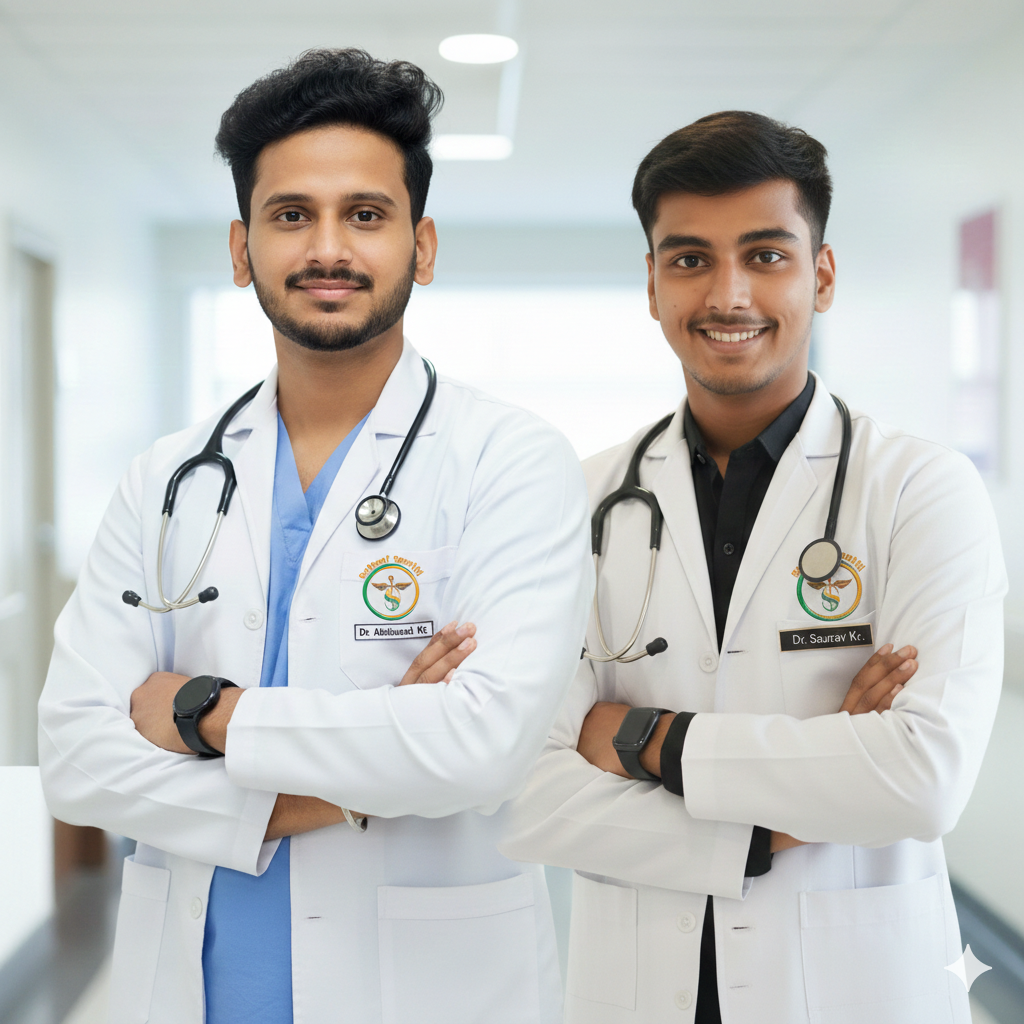
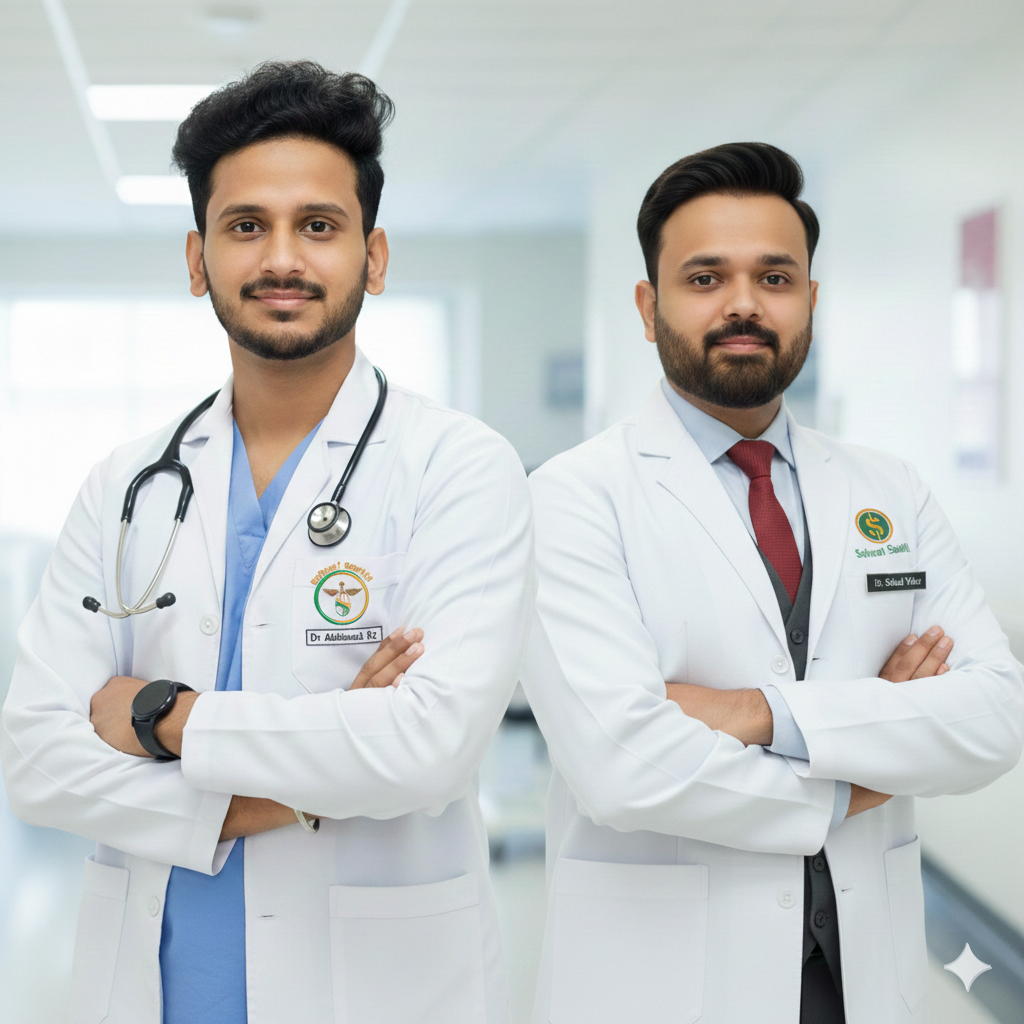
feat: enhance Nutrition Hub mobile responsiveness - responsive header title scaling, mobile-optimized float menu, flexible Bio Plate sizing

diff --git a/frontend/src/pages/NutritionHub.jsx b/frontend/src/pages/NutritionHub.jsx
@@ -390,10 +390,10 @@ const NutritionHub = () => {
                             <BsLightningFill className="text-yellow-300" />
                             <span className="text-sm font-black tracking-widest uppercase">Elite Virtual Health Kitchen 🏛</span>
                         </div>
-                        <h1 className="text-4xl md:text-6xl font-black mb-6 leading-tight flex items-center gap-3 flex-wrap">
-                            <span style={{ color: "#FF9933" }}>Sehaat</span> <span style={{ color: "#138808" }}>Saathi</span> Nutrition Hub 🥗
+                        <h1 className="text-3xl sm:text-4xl md:text-5xl lg:text-6xl font-black mb-4 sm:mb-6 leading-tight flex items-center gap-2 sm:gap-3 flex-wrap">
+                            <span style={{ color: "#FF9933" }}>Sehaat</span> <span style={{ color: "#138808" }}>Saathi</span> <span className="w-full sm:w-auto">Nutrition Hub 🥗</span>
                         </h1>
-                        <p className="text-lime-50 text-xl md:text-2xl max-w-2xl leading-relaxed opacity-90 drop-shadow-md">
+                        <p className="text-lime-50 text-base sm:text-lg md:text-xl lg:text-2xl max-w-2xl leading-relaxed opacity-90 drop-shadow-md">
                             India's first Medical-Grade AI Kitchen. Advanced condition merging, seasonal adjustments, and ICMR-compliant guidance.
                         </p>
                     </div>
@@ -433,7 +433,7 @@ const NutritionHub = () => {
                         </div>
                     </div>
 
-                    <div className="grid grid-cols-1 md:grid-cols-2 lg:grid-cols-4 gap-6">
+                    <div className="grid grid-cols-1 sm:grid-cols-2 lg:grid-cols-4 gap-4 sm:gap-6">
                         {/* Primary Disease */}
                         <div className="space-y-3">
                             <label className="text-[10px] font-black text-lime-600 uppercase tracking-[0.2em] ml-2">Primary Condition</label>
@@ -727,20 +727,21 @@ const NutritionHub = () => {
                 )}
             </div>
 
-            {/* Float Menu */}
-            <div className="fixed bottom-10 left-1/2 -translate-x-1/2 bg-black/95 backdrop-blur-2xl px-10 py-5 rounded-[2.5rem] flex items-center gap-8 shadow-[0_30px_100px_rgba(0,0,0,0.5)] z-[100] border border-white/10 group animate-in slide-in-from-bottom-10">
-                <div className="flex flex-col border-l-4 border-lime-500 pl-4">
-                    <span className="text-[9px] font-black uppercase tracking-[0.4em] mb-1"><span style={{ color: "#FF9933" }}>Sehaat</span> <span style={{ color: "#138808" }}>Saathi</span></span>
-                    <span className="text-white font-black text-[10px] whitespace-nowrap">GOVT-GRADE NUTRITION HUB v3.0 Elite</span>
+            {/* Float Menu - Mobile Optimized */}
+            <div className="fixed bottom-4 sm:bottom-10 left-1/2 -translate-x-1/2 bg-black/95 backdrop-blur-2xl px-4 sm:px-6 md:px-10 py-3 sm:py-4 md:py-5 rounded-full sm:rounded-[2.5rem] flex items-center gap-3 sm:gap-4 md:gap-8 shadow-[0_30px_100px_rgba(0,0,0,0.5)] z-[100] border border-white/10 group animate-in slide-in-from-bottom-10 max-w-[95vw]">
+                <div className="hidden sm:flex flex-col border-l-4 border-lime-500 pl-3 md:pl-4">
+                    <span className="text-[8px] sm:text-[9px] font-black uppercase tracking-[0.2em] sm:tracking-[0.4em] mb-1"><span style={{ color: "#FF9933" }}>Sehaat</span> <span style={{ color: "#138808" }}>Saathi</span></span>
+                    <span className="text-white font-black text-[9px] sm:text-[10px] whitespace-nowrap hidden md:block">GOVT-GRADE NUTRITION HUB v3.0 Elite</span>
+                    <span className="text-white font-black text-[9px] sm:text-[10px] md:hidden">NUTRITION HUB v3.0</span>
                 </div>
-                <div className="flex gap-6 items-center">
-                    <div className="bg-white/10 px-3 py-1.5 rounded-xl border border-white/5 flex items-center gap-2">
-                        <div className="w-2 h-2 rounded-full bg-green-500 animate-pulse"></div>
-                        <span className="text-[10px] font-black text-gray-400">ICMR COMPLIANT</span>
+                <div className="flex gap-2 sm:gap-4 md:gap-6 items-center">
+                    <div className="bg-white/10 px-2 sm:px-3 py-1 sm:py-1.5 rounded-lg sm:rounded-xl border border-white/5 flex items-center gap-1 sm:gap-2">
+                        <div className="w-1.5 h-1.5 sm:w-2 sm:h-2 rounded-full bg-green-500 animate-pulse"></div>
+                        <span className="text-[8px] sm:text-[10px] font-black text-gray-400">ICMR</span>
                     </div>
                     <button
                         onClick={() => window.scrollTo({ top: 0, behavior: 'smooth' })}
-                        className="w-10 h-10 bg-lime-500 rounded-full flex items-center justify-center text-white hover:scale-110 transition-all font-black shadow-lg shadow-lime-500/40"
+                        className="w-8 h-8 sm:w-10 sm:h-10 bg-lime-500 rounded-full flex items-center justify-center text-white hover:scale-110 transition-all font-black shadow-lg shadow-lime-500/40 text-sm sm:text-base"
                     >↑</button>
                 </div>
             </div>
@@ -760,8 +761,8 @@ const DynamicBioPlate = ({ type, isMerged }) => {
     }, [safeType]);
 
     return (
-        <div className="relative group max-w-full">
-            <div className="relative w-80 h-80 rounded-full border-[15px] border-white shadow-3xl overflow-hidden flex items-center justify-center bg-white">
+        <div className="relative group w-full flex justify-center">
+            <div className="relative w-64 h-64 sm:w-72 sm:h-72 md:w-80 md:h-80 rounded-full border-8 sm:border-[12px] md:border-[15px] border-white shadow-3xl overflow-hidden flex items-center justify-center bg-white">
                 <div className="absolute inset-0 flex flex-wrap transition-opacity duration-1000">
                     <div className="bg-green-500/20 border-r border-b border-dashed border-green-500/40 flex flex-col items-center justify-center"
                         style={{ width: `${sizes.veggies + sizes.carbs}%`, height: '50%' }}>
